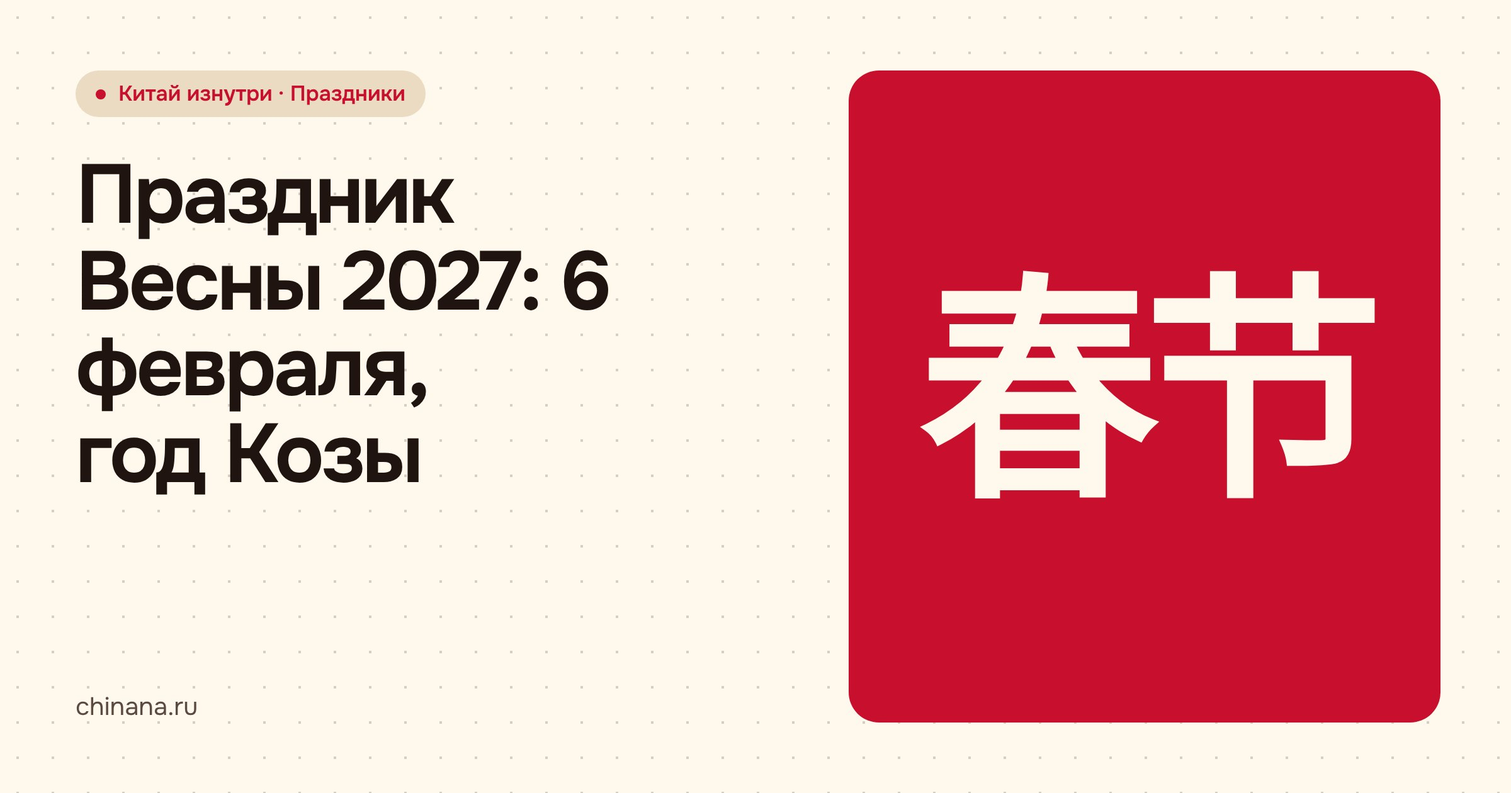
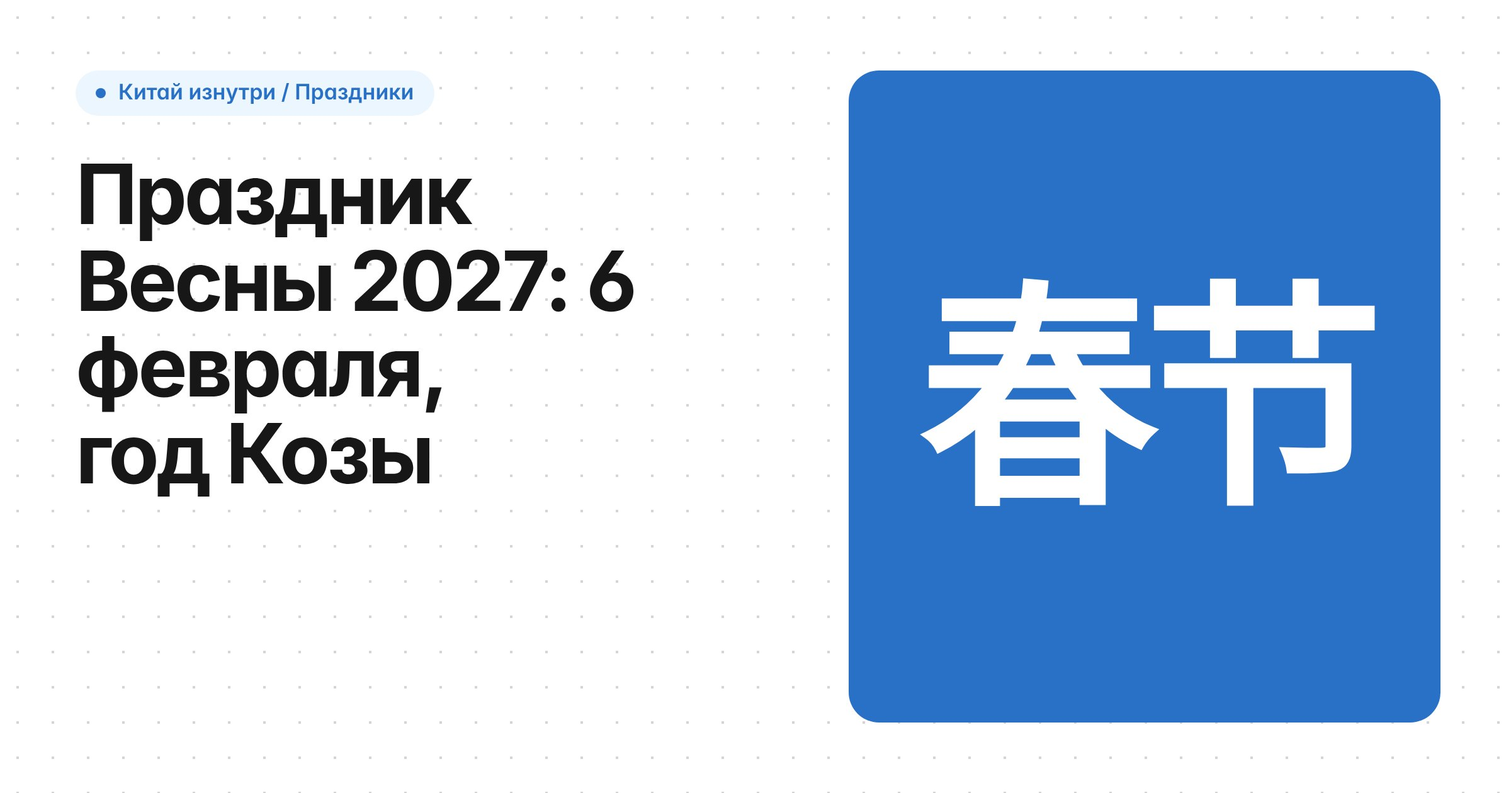
Главная, Wiki и шапка: мифы с рассеиванием, блог в 1 колонку, дропдаун «Вузы», без «·» (#25)
Claude-Session: https://claude.ai/code/session_01QsQA1ALxuqJ2HV99zuLppH

diff --git a/src/components/home-sections.tsx b/src/components/home-sections.tsx
@@ -1,9 +1,10 @@
+import type React from "react";
 import Link from "next/link";
 import { Check, X, ArrowRight } from "lucide-react";
 import { home } from "@/content/home";
 import { Container, Section, SectionHead } from "@/components/container";
 import { Button } from "@/components/ui/button";
-import { PostCard } from "@/components/post-card";
+import { PostList } from "@/components/post-card";
 import { getPosts } from "@/lib/posts";
 
 // Секции главной v0.6: цели, мифы, путь к HSK. Без фото — иероглифы и иконки.
@@ -36,7 +37,7 @@ export function Goals() {
         <SectionHead eyebrow={home.goalsHead.eyebrow} title={home.goalsHead.title} accent={home.goalsHead.accent} text={home.goalsHead.text} />
         <div className="cards grid-cols-1 sm:grid-cols-2 lg:grid-cols-3">
           {home.goals.map((g) => (
-            <Link key={g.title} href={g.href} className="group relative flex min-h-[220px] flex-col overflow-hidden bg-card px-[22px] pb-6 pt-[26px] transition-colors hover:bg-card-hover">
+            <Link key={g.title} href={g.href} className="group relative flex min-h-[220px] flex-col overflow-hidden bg-card px-[22px] pb-6 pt-[26px]">
               <span aria-hidden="true" lang="zh-Hans" data-zh={g.zh} className="zh-deco pointer-events-none absolute -bottom-4 -right-2 font-zh text-[120px] font-black leading-none text-primary opacity-[0.08] transition-opacity group-hover:opacity-[0.14]" />
               <span aria-hidden="true" lang="zh-Hans" className="font-zh text-[28px] font-black leading-none text-primary">{g.zh}</span>
               <h3 className="mt-5 text-[22px] font-bold uppercase leading-tight">{g.title}</h3>
@@ -50,21 +51,30 @@ export function Goals() {
   );
 }
 
+// Миф крупно; по наведению, фокусу или нажатию слова мифа разлетаются и тают, проступает реальность.
+// Смещения слов детерминированные (по индексу) — разметка одинаковая на сервере и в браузере.
+const drift = (i: number) => ({ "--dx": `${((i * 37) % 9) * 6 - 24}px`, "--dy": `${-14 - ((i * 53) % 7) * 6}px`, "--rot": `${((i * 29) % 11) - 5}deg`, "--delay": `${(i % 5) * 35}ms` }) as React.CSSProperties;
+
 export function Myths() {
   return (
     <Section id="myths">
       <Container>
-        <SectionHead title={home.mythsHead.title} accent={home.mythsHead.accent} />
+        <SectionHead title={home.mythsHead.title} accent={home.mythsHead.accent} text={home.mythsHead.text} />
         <div className="cards grid-cols-1 sm:grid-cols-2 lg:grid-cols-4">
           {home.myths.map((m) => (
-            <article key={m.myth} className="relative flex flex-col overflow-hidden bg-card px-[22px] pb-6 pt-[26px]">
-              <span aria-hidden="true" lang="zh-Hans" data-zh={m.zh} className="zh-deco pointer-events-none absolute -right-1 top-3 font-zh text-[64px] font-black leading-none text-primary opacity-[0.1]" />
-              <p className="flex items-center gap-2 font-mono text-xs uppercase text-muted-foreground"><X aria-hidden="true" className="size-4 text-primary" />Миф</p>
-              <p className="mt-2 text-[17px] font-semibold leading-snug">{m.myth}</p>
-              <hr className="my-5 border-t border-dashed border-border" />
-              <p className="flex items-center gap-2 font-mono text-xs uppercase text-muted-foreground"><Check aria-hidden="true" className="size-4 text-primary" />Реальность</p>
-              <p className="mt-2 text-[15px]">{m.fact}</p>
-              <Link href={m.href} className="mt-auto inline-flex items-center gap-1.5 pt-5 text-sm font-semibold text-brand hover:underline">{m.link}<ArrowRight aria-hidden="true" className="size-3.5" /></Link>
+            <article key={m.myth} tabIndex={0} className="myth group relative grid min-h-[300px] overflow-hidden bg-card outline-none focus-visible:outline-2 focus-visible:-outline-offset-2 focus-visible:outline-primary">
+              <span aria-hidden="true" lang="zh-Hans" data-zh={m.zh} className="zh-deco myth-zh pointer-events-none absolute -bottom-4 -right-2 font-zh text-[120px] font-black leading-none text-primary opacity-[0.08]" />
+              <div className="myth-front col-start-1 row-start-1 flex flex-col px-[22px] pb-6 pt-[26px]">
+                <p className="flex items-center gap-2 font-mono text-xs uppercase text-muted-foreground"><X aria-hidden="true" className="size-4 text-primary" />Миф</p>
+                <p className="mt-auto text-[clamp(24px,2.2vw,30px)] font-bold uppercase leading-[1.1]">
+                  {m.myth.split(" ").map((w, i) => <span key={i} className="myth-word" style={drift(i)}>{w}</span>).flatMap((el, i) => (i ? [" ", el] : [el]))}
+                </p>
+              </div>
+              <div className="myth-back col-start-1 row-start-1 flex flex-col px-[22px] pb-6 pt-[26px]">
+                <p className="flex items-center gap-2 font-mono text-xs uppercase text-muted-foreground"><Check aria-hidden="true" className="size-4 text-primary" />Реальность</p>
+                <p className="mt-3 text-[17px] leading-snug">{m.fact}</p>
+                <Link href={m.href} className="mt-auto inline-flex items-center gap-1.5 pt-5 text-sm font-semibold text-brand hover:underline">{m.link}<ArrowRight aria-hidden="true" className="size-3.5" /></Link>
+              </div>
             </article>
           ))}
         </div>
@@ -81,8 +91,7 @@ export function HskPath() {
         <div className="cards grid-cols-1 sm:grid-cols-2 lg:grid-cols-4">
           {home.hsk.map((h) => (
             <div key={h.level + h.time} className="flex min-h-[220px] flex-col bg-card px-[22px] pb-6 pt-[26px]">
-              <span className="font-mono text-xs uppercase text-muted-foreground">汉语水平考试</span>
-              <b className="mt-8 block text-[clamp(34px,3.6vw,46px)] font-bold leading-none text-primary">{h.level}</b>
+              <b className="block text-[clamp(34px,3.6vw,46px)] font-bold leading-none text-primary">{h.level}</b>
               <span className="mt-3 inline-flex self-start rounded-full bg-accent px-3 py-1 font-mono text-xs font-medium text-accent-foreground">{h.time}</span>
               <p className="mt-3 text-[15px] text-muted-foreground">{h.text}</p>
             </div>
@@ -104,9 +113,7 @@ export function HomeBlog() {
     <Section id="blog">
       <Container>
         <SectionHead title={home.blogHead.title} accent={home.blogHead.accent} text={home.blogHead.text} />
-        <div className="cards grid-cols-1 md:grid-cols-2">
-          {posts.map((p) => <PostCard key={p.slug} p={p} />)}
-        </div>
+        <PostList posts={posts} />
         <div className="mt-6 flex justify-center"><Button asChild variant="outline"><Link href="/blog/">Все статьи →</Link></Button></div>
       </Container>
     </Section>

diff --git a/src/components/header.tsx b/src/components/header.tsx
@@ -2,6 +2,7 @@ import Link from "next/link";
 import { Menu, X } from "lucide-react";
 import { nav, site } from "@/content/site";
 import { programs } from "@/content/programs";
+import { universities, uniPath } from "@/content/universities";
 import { ChevronDown } from "lucide-react";
 import { Container } from "./container";
 import { Button } from "./ui/button";
@@ -16,25 +17,46 @@ export function Logo({ className }: { className?: string }) {
   );
 }
 
-// Дропдаун «Программы»: открывается по наведению и по фокусу с клавиатуры, без JavaScript
-function ProgramsMenu({ label }: { label: string }) {
+type MenuItem = { href: string; title: string; sub?: string; zh: string };
+const menus: Record<string, { items: MenuItem[]; all: string; wide?: boolean }> = {
+  "/programs/": {
+    items: programs.map((p) => ({ href: `/programs/${p.slug}/`, title: p.title, sub: `${p.facts[0]?.label}: ${p.facts[0]?.value}`, zh: p.zh })),
+    all: "Сравнить программы →",
+  },
+  "/universities/": {
+    items: universities.map((u) => ({ href: uniPath(u), title: u.nameRu, sub: u.city, zh: u.zhShort })),
+    all: `Весь каталог: ${universities.length} вузов →`,
+    wide: true,
+  },
+};
+
+// Дропдауны «Программы» и «Вузы»: открываются по наведению и по фокусу с клавиатуры, без JavaScript
+function NavMenu({ href, label }: { href: string; label: string }) {
+  const m = menus[href];
   return (
     <div className="group/p relative">
-      <Link href="/programs/" className="inline-flex items-center gap-1 py-5 hover:text-primary" aria-haspopup="true">
+      <Link href={href} className="inline-flex items-center gap-1 py-5 hover:text-primary" aria-haspopup="true">
         {label}<ChevronDown aria-hidden="true" className="size-3.5 transition-transform group-hover/p:rotate-180 group-focus-within/p:rotate-180" />
       </Link>
-      <div className="invisible absolute left-1/2 top-full z-50 w-[300px] -translate-x-1/2 opacity-0 transition-opacity group-hover/p:visible group-hover/p:opacity-100 group-focus-within/p:visible group-focus-within/p:opacity-100">
-        <ul className="border border-border bg-card shadow-[0_8px_24px_-12px_rgb(0_0_0/0.25)]">
-          {programs.map((p) => (
-            <li key={p.slug} className="border-b border-grid-line last:border-b-0">
-              <Link href={`/programs/${p.slug}/`} className="flex items-baseline justify-between gap-3 px-4 py-3 hover:bg-secondary">
-                <span><b className="block text-[15px] font-semibold">{p.title}</b><span className="text-[13px] text-muted-foreground">{p.facts[0]?.label}: {p.facts[0]?.value}</span></span>
-                <span aria-hidden="true" lang="zh-Hans" className="font-zh text-lg font-black text-primary">{p.zh}</span>
-              </Link>
-            </li>
-          ))}
-          <li><Link href="/programs/" className="block bg-secondary px-4 py-2.5 font-mono text-xs uppercase hover:text-primary">Сравнить программы →</Link></li>
-        </ul>
+      <div className={`invisible absolute left-1/2 top-full z-50 -translate-x-1/2 opacity-0 transition-opacity group-hover/p:visible group-hover/p:opacity-100 group-focus-within/p:visible group-focus-within/p:opacity-100 ${m.wide ? "w-[880px]" : "w-[300px]"}`}>
+        <div className="border border-border bg-card shadow-[0_8px_24px_-12px_rgb(0_0_0/0.25)]">
+          <ul className={m.wide ? "grid max-h-[calc(100vh-140px)] grid-cols-2 overflow-y-auto" : ""}>
+            {m.items.map((i) => (
+              <li key={i.href} className={`border-b border-grid-line ${m.wide ? "odd:border-r" : "last:border-b-0"}`}>
+                <Link href={i.href} title={m.wide ? i.title : undefined} className={`flex items-baseline gap-3 px-4 hover:bg-secondary ${m.wide ? "py-2" : "justify-between py-3"}`}>
+                  {m.wide && <span aria-hidden="true" lang="zh-Hans" className="w-[3.2em] shrink-0 whitespace-nowrap font-zh text-sm font-black text-primary">{i.zh}</span>}
+                  {m.wide ? (
+                    <><span className="min-w-0 flex-1 truncate text-sm font-semibold">{i.title}</span><span className="shrink-0 font-mono text-[11px] text-muted-foreground">{i.sub}</span></>
+                  ) : (
+                    <span className="min-w-0"><b className="block text-[15px] font-semibold">{i.title}</b><span className="text-[13px] text-muted-foreground">{i.sub}</span></span>
+                  )}
+                  {!m.wide && <span aria-hidden="true" lang="zh-Hans" className="font-zh text-lg font-black text-primary">{i.zh}</span>}
+                </Link>
+              </li>
+            ))}
+          </ul>
+          <Link href={href} className="block bg-secondary px-4 py-2.5 font-mono text-xs uppercase hover:text-primary">{m.all}</Link>
+        </div>
       </div>
     </div>
   );
@@ -55,7 +77,7 @@ function MobileMenu() {
               <a href={n.href} className="block py-3.5 text-lg font-medium">{n.label}</a>
               {n.href === "/programs/" && (
                 <ul className="-mt-1 pb-3 pl-4">
-                  {programs.map((p) => <li key={p.slug}><a href={`/programs/${p.slug}/`} className="block py-1.5 text-muted-foreground">{p.title}</a></li>)}
+                  {menus[n.href].items.map((i) => <li key={i.href}><a href={i.href} className="block py-1.5 text-muted-foreground">{i.title}</a></li>)}
                 </ul>
               )}
             </li>
@@ -74,7 +96,7 @@ export function Header() {
         <Logo />
         <nav aria-label="Основное меню" className="hidden items-center gap-7 text-[15px] lg:flex">
           {nav.map((n) =>
-            n.href === "/programs/" ? <ProgramsMenu key={n.href} label={n.label} /> : <Link key={n.href} href={n.href} className="hover:text-primary">{n.label}</Link>,
+            menus[n.href] ? <NavMenu key={n.href} href={n.href} label={n.label} /> : <Link key={n.href} href={n.href} className="hover:text-primary">{n.label}</Link>,
           )}
         </nav>
         <div className="flex items-center gap-2">

diff --git a/src/components/wiki.tsx b/src/components/wiki.tsx
@@ -12,7 +12,7 @@ import { answerSchema, faqSchema, graph } from "@/lib/schema";
 export function WikiNav({ current }: { current?: string }) {
   const list = (
     <nav aria-label="Разделы Wiki" className="text-[15px]">
-      <Link href="/wiki/" className={`mb-4 block font-mono text-xs uppercase ${current === "/wiki/" ? "text-primary" : "text-muted-foreground hover:text-primary"}`}>Wiki · все разделы</Link>
+      <Link href="/wiki/" className={`mb-4 block font-mono text-xs uppercase ${current === "/wiki/" ? "text-primary" : "text-muted-foreground hover:text-primary"}`}>Все разделы Wiki</Link>
       {wikiSections.map((s) => (
         <div key={s.id} className="mb-5">
           <p className="mb-1.5 flex items-baseline gap-2 font-semibold">
@@ -35,8 +35,8 @@ export function WikiNav({ current }: { current?: string }) {
         <summary className="cursor-pointer px-4 py-3 font-mono text-xs uppercase">Все статьи Wiki</summary>
         <div className="border-t border-border px-4 py-4">{list}</div>
       </details>
-      <aside className="hidden lg:col-start-2 lg:row-start-1 lg:block">
-        <div className="sticky top-[92px] max-h-[calc(100vh-110px)] overflow-y-auto border-l border-grid-line pl-6">{list}</div>
+      <aside className="hidden lg:col-span-2 lg:col-start-11 lg:row-start-1 lg:block">
+        <div className="sticky top-[92px] max-h-[calc(100vh-110px)] overflow-y-auto pl-4">{list}</div>
       </aside>
     </>
   );
@@ -44,12 +44,12 @@ export function WikiNav({ current }: { current?: string }) {
 
 export function WikiShell({ current, children }: { current?: string; children: React.ReactNode }) {
   return (
-    <section className="relative overflow-hidden pb-[clamp(64px,9vw,120px)] pt-[clamp(32px,5vw,64px)]">
+    <section className="relative overflow-clip pb-[clamp(64px,9vw,120px)] pt-[clamp(32px,5vw,64px)]">
       <GridLines />
       <Container>
-        <div className="grid gap-x-12 lg:grid-cols-[1fr_240px]">
+        <div className="grid lg:grid-cols-12">
           <WikiNav current={current} />
-          <div className="min-w-0 lg:col-start-1 lg:row-start-1">{children}</div>
+          <div className="min-w-0 lg:col-span-10 lg:col-start-1 lg:row-start-1 lg:pr-[clamp(24px,3vw,48px)]">{children}</div>
         </div>
       </Container>
     </section>
@@ -75,10 +75,10 @@ export function WikiArticle({ a }: { a: Answer }) {
     <WikiShell current={a.path}>
       <JsonLd data={graph(answerSchema(a), a.faq.length > 0 && faqSchema(a.faq))} />
       <article className="max-w-[46em]">
-        <p className="font-mono text-xs uppercase tracking-wide text-primary">Wiki · {sec.title}</p>
+        <p className="font-mono text-xs uppercase tracking-wide text-primary">Wiki / {sec.title}</p>
         <h1 className="mt-4 text-[clamp(32px,4.6vw,60px)]">{a.h1} <em>{a.h1Accent}</em></h1>
         <p className="mt-6 text-[clamp(17px,1.5vw,19px)]">{a.answer}</p>
-        <p className="mt-3 font-mono text-xs text-muted-foreground">Факты проверены {dateRu(a.updated)} · источники внизу страницы</p>
+        <p className="mt-3 font-mono text-xs text-muted-foreground">Факты проверены {dateRu(a.updated)}, источники внизу страницы</p>
 
         {a.facts.length > 0 && (
           <div className="cards mt-8 grid-cols-1 sm:grid-cols-2">

diff --git a/src/components/post-card.tsx b/src/components/post-card.tsx
@@ -1,23 +1,35 @@
 import Link from "next/link";
 import { formatDate, type Post } from "@/lib/posts";
 
-// Карточка статьи: обложка, дата, рубрика, заголовок, «Читать →». Обложку рисует media.mjs при выкладке.
+// Карточка статьи: обложка слева, дата, рубрика, заголовок, «Читать →». Обложку рисует media.mjs при выкладке.
 export function PostCard({ p }: { p: Post }) {
   return (
-    <Link href={`/blog/${p.slug}/`} className="group flex flex-col bg-card transition-colors hover:bg-card-hover">
+    <Link href={`/blog/${p.slug}/`} className="group grid bg-card sm:grid-cols-[minmax(0,5fr)_minmax(0,6fr)]">
       <div className="relative aspect-[16/9] overflow-hidden bg-secondary">
         {p.cover && (
           // eslint-disable-next-line @next/next/no-img-element
-          <img src={p.cover} alt={p.coverAlt ?? ""} loading="lazy" decoding="async" className="absolute inset-0 size-full object-cover transition-transform duration-300 group-hover:scale-[1.02]" />
+          <img src={p.cover} alt={p.coverAlt ?? ""} loading="lazy" decoding="async" className="absolute inset-0 size-full object-cover" />
         )}
       </div>
-      <div className="flex flex-1 flex-col px-[22px] pb-6 pt-5">
+      <div className="flex flex-col px-[22px] pb-6 pt-5">
         <p className="font-mono text-xs uppercase text-muted-foreground">
-          <time dateTime={p.date}>{formatDate(p.date)}</time>{p.rubric && <> · {p.rubric}</>}
+          <time dateTime={p.date}>{formatDate(p.date)}</time>{p.rubric && <>, {p.rubric}</>}
         </p>
-        <h3 className="mt-2 text-[20px] font-semibold leading-snug">{p.title}</h3>
+        <h3 className="mt-2 text-[20px] font-semibold leading-snug group-hover:text-primary">{p.title}</h3>
         <span className="mt-auto pt-4 font-semibold text-brand group-hover:underline">Читать →</span>
       </div>
     </Link>
+  );
+}
+
+// Список статей: одна колонка шириной 8 из 12 колонок сетки, по центру.
+export function PostList({ posts }: { posts: Post[] }) {
+  if (!posts.length) return null;
+  return (
+    <div className="lg:grid lg:grid-cols-12 lg:gap-0">
+      <div className="cards grid-cols-1 lg:col-span-8 lg:col-start-3">
+        {posts.map((p) => <PostCard key={p.slug} p={p} />)}
+      </div>
+    </div>
   );
 }

diff --git a/src/content/home.ts b/src/content/home.ts
@@ -1,7 +1,7 @@
 // Контент главной — specs/02-spec.md §5 «Главная», прототип A v3.
 
 export const home = {
-  eyebrow: "Языковой год · Foundation · Бакалавриат · Магистратура",
+  eyebrow: "Языковой год, Foundation, бакалавриат, магистратура",
   h1: "Поступление в Китай для",
   h1Mark: "взрослых",
   answer:
@@ -35,7 +35,7 @@ export const home = {
     { zh: "生活", title: "Переезд", text: "Пожить в Китае, привыкнуть к стране и выбрать город для жизни.", href: "/wiki/cities/" },
     { zh: "成长", title: "Новое начало", text: "Второе образование или смена профессии — в 25, 30 и позже.", href: "/wiki/language-to-degree/" },
   ],
-  mythsHead: { title: "Учёба в Китае —", accent: "реально и доступно" },
+  mythsHead: { title: "Учёба в Китае —", accent: "реально и доступно", text: "Развейте мифы о Китае: наведите курсор на карточку или нажмите на неё." },
   myths: [
     { zh: "零", myth: "В Китай берут только со знанием языка", fact: "На языковые курсы принимают с нуля: новичков распределяют в группы по тесту. Есть и программы на английском.", href: "/wiki/language-courses/", link: "Языковые курсы" },
     { zh: "钱", myth: "Учёба за границей — это дорого", fact: "Год языковых курсов в вузах нашего каталога стоит от 13 000 до 36 000 юаней. Цены вузов — со ссылками.", href: "/wiki/cost/", link: "Стоимость учёбы" },

diff --git a/src/app/programs/[slug]/page.tsx b/src/app/programs/[slug]/page.tsx
@@ -37,7 +37,7 @@ export default async function ProgramPage({ params }: { params: Promise<{ slug: 
         <GridLines />
         <div aria-hidden="true" lang="zh-Hans" className="zh-bg left-1/2 top-[38%] -translate-x-1/2 -translate-y-1/2 text-[clamp(220px,32vw,440px)] text-primary opacity-[0.06]">{p.zh}</div>
         <Container>
-          <p className="font-mono text-xs uppercase tracking-wide text-primary">Программа {p.num} · {p.zh}</p>
+          <p className="font-mono text-xs uppercase tracking-wide text-primary">Программа {p.num} {p.zh}</p>
           <h1 className="mx-auto mt-[18px] max-w-[9.3em] text-[clamp(38px,6.4vw,84px)]">{p.h1} <em>{p.h1Accent}</em></h1>
           <p className="mx-auto mt-6 max-w-[42.6em] text-[clamp(17px,1.6vw,20px)] text-muted-foreground">{p.answer}</p>
           <div className="mt-8 flex flex-wrap justify-center gap-3">
@@ -133,7 +133,7 @@ export default async function ProgramPage({ params }: { params: Promise<{ slug: 
           <SectionHead title="Другие программы" />
           <div className="cards grid-cols-1 md:grid-cols-3">
             {others.map((o) => (
-              <Link key={o.slug} href={`/programs/${o.slug}/`} className="block bg-card px-[22px] py-[26px] transition-colors hover:bg-card-hover">
+              <Link key={o.slug} href={`/programs/${o.slug}/`} className="block bg-card px-[22px] py-[26px]">
                 <span className="font-mono text-[13px]">{o.num}</span>
                 <h3 className="mb-1.5 mt-2.5 text-[22px] font-bold uppercase">{o.title}</h3>
                 <p className="text-[15px] text-muted-foreground">{o.short}</p>

diff --git a/src/app/globals.css b/src/app/globals.css
@@ -123,3 +123,15 @@
 /* Декоративный иероглиф: текст из data-zh в ::before — это украшение, не контент (контраст для него не нужен) */
 .zh-deco::before { content: attr(data-zh); }
 .zh-bg { position: absolute; pointer-events: none; user-select: none; font-family: var(--font-zh); font-weight: 900; line-height: 1; white-space: nowrap; }
+
+/* Мифы: слова мифа разлетаются и тают, проступает реальность (hover, фокус, нажатие) */
+.myth-word { display: inline-block; white-space: pre; transition: transform .6s cubic-bezier(.2,.7,.2,1) var(--delay), opacity .5s ease var(--delay), filter .6s ease var(--delay); }
+.myth-front > p:first-child, .myth-zh { transition: opacity .3s ease; }
+.myth-back { opacity: 0; transform: translateY(8px); transition: opacity .45s ease .2s, transform .45s ease .2s; pointer-events: none; }
+.myth:hover .myth-word, .myth:focus-within .myth-word { transform: translate(var(--dx), var(--dy)) rotate(var(--rot)); opacity: 0; filter: blur(6px); }
+.myth:hover .myth-front > p:first-child, .myth:focus-within .myth-front > p:first-child { opacity: 0; }
+.myth:hover .myth-zh, .myth:focus-within .myth-zh { opacity: .14; }
+.myth:hover .myth-back, .myth:focus-within .myth-back { opacity: 1; transform: none; pointer-events: auto; }
+@media (prefers-reduced-motion: reduce) {
+  .myth-word, .myth-back { transition: opacity .2s ease; transform: none !important; filter: none !important; }
+}

diff --git a/src/app/blog/page.tsx b/src/app/blog/page.tsx
@@ -3,7 +3,7 @@ import Link from "next/link";
 import { site } from "@/content/site";
 import { getPosts } from "@/lib/posts";
 import { Container, Section, SectionHead } from "@/components/container";
-import { PostCard } from "@/components/post-card";
+import { PostList } from "@/components/post-card";
 import { JsonLd } from "@/components/json-ld";
 import { graph } from "@/lib/schema";
 
@@ -38,12 +38,10 @@ export default function Blog() {
             <p>
               Нашли ошибку или устаревшую цифру? Напишите нам — проверим по источнику и исправим статью, а дату обновления поставим в начале текста.
             </p>
-            <p className="font-mono text-xs uppercase text-muted-foreground">Рубрики: праздники · обычаи и этикет · язык · еда · города</p>
+            <p className="font-mono text-xs uppercase text-muted-foreground">Рубрики: праздники, обычаи и этикет, язык, еда, города</p>
           </div>
           {posts.length === 0 && <p className="text-center text-muted-foreground">Статьи скоро появятся.</p>}
-          <div className="cards grid-cols-1 md:grid-cols-2">
-            {posts.map((p) => <PostCard key={p.slug} p={p} />)}
-          </div>
+          <PostList posts={posts} />
         </Container>
       </Section>
     </>

diff --git a/src/app/wiki/cities/page.tsx b/src/app/wiki/cities/page.tsx
@@ -16,7 +16,7 @@ export default function CitiesPage() {
   return (
     <WikiShell current="/wiki/cities/">
       <JsonLd data={graph(itemList(cities.map((c) => ({ name: c.nameRu, path: cityPath(c) }))))} />
-      <p className="font-mono text-xs uppercase tracking-wide text-primary">Wiki · Города</p>
+      <p className="font-mono text-xs uppercase tracking-wide text-primary">Wiki / Города</p>
       <h1 className="mt-4 text-[clamp(32px,4.6vw,60px)]">Города Китая <em>для учёбы</em></h1>
       <p className="mt-6 max-w-[46em] text-[clamp(17px,1.5vw,19px)]">
         Город решает почти столько же, сколько вуз: от него зависят климат, расходы и дорога домой. Харбин — самый холодный: средняя температура января −17,3 °C, зато до него летают из девяти городов России. На юге, в Гуанчжоу и Сямэне, январь теплее +13 °C. Прямые рейсы из Москвы есть в Пекин, Шанхай, Ханчжоу, Ухань, Чэнду и Гуанчжоу. Ниже — 13 городов, где находятся вузы нашего каталога.

diff --git a/src/app/blog/[slug]/page.tsx b/src/app/blog/[slug]/page.tsx
@@ -36,11 +36,11 @@ export default async function PostPage({ params }: { params: Promise<{ slug: str
       <JsonLd data={graph(articleSchema(p))} />
       <Section className="pt-12">
         <Container className="max-w-3xl">
-          <p className="mb-4 font-mono text-xs uppercase tracking-wide text-primary">Блог{p.rubric ? ` · ${p.rubric}` : ""}</p>
+          <p className="mb-4 font-mono text-xs uppercase tracking-wide text-primary">Блог{p.rubric ? ` / ${p.rubric}` : ""}</p>
           <h1 className="text-[clamp(30px,4.4vw,52px)] leading-tight">{p.title}</h1>
           <p className="mt-4 text-sm text-muted-foreground">
-            {site.person ? site.person.name : site.name} · <time dateTime={p.date}>{formatDate(p.date)}</time>
-            {p.updated && p.updated !== p.date && <> · обновлено <time dateTime={p.updated}>{formatDate(p.updated)}</time></>}
+            {site.person ? site.person.name : site.name}, <time dateTime={p.date}>{formatDate(p.date)}</time>
+            {p.updated && p.updated !== p.date && <>, обновлено <time dateTime={p.updated}>{formatDate(p.updated)}</time></>}
           </p>
           {p.cover && (
             // eslint-disable-next-line @next/next/no-img-element

diff --git a/src/app/universities/[slug]/page.tsx b/src/app/universities/[slug]/page.tsx
@@ -48,7 +48,7 @@ export default async function UniPage({ params }: { params: Promise<{ slug: stri
         <GridLines />
         <div aria-hidden="true" lang="zh-Hans" className="zh-bg left-1/2 top-[38%] -translate-x-1/2 -translate-y-1/2 text-[clamp(180px,26vw,380px)] text-primary opacity-[0.06]">{u.zhShort}</div>
         <Container>
-          <p className="font-mono text-xs uppercase tracking-wide text-primary"><span lang="zh-Hans" className="font-zh text-sm font-black">{u.nameZh}</span> · {u.city}</p>
+          <p className="font-mono text-xs uppercase tracking-wide text-primary"><span lang="zh-Hans" className="font-zh text-sm font-black">{u.nameZh}</span> {u.city}</p>
           <h1 className="mx-auto mt-[18px] max-w-[12em] text-[clamp(34px,5.6vw,76px)]">{u.nameRu}: <em>поступление для россиян</em></h1>
           <p className="mx-auto mt-6 max-w-[42.6em] text-[clamp(17px,1.6vw,20px)] text-muted-foreground">{uniAnswer(u)}</p>
           <div className="mt-8 flex flex-wrap justify-center gap-3">

diff --git a/src/app/wiki/cities/[slug]/page.tsx b/src/app/wiki/cities/[slug]/page.tsx
@@ -36,7 +36,7 @@ export default async function CityPage({ params }: { params: Promise<{ slug: str
     <WikiShell current={cityPath(c)}>
       <JsonLd data={graph(schema)} />
       <article className="max-w-[46em]">
-        <p className="font-mono text-xs uppercase tracking-wide text-primary">Wiki · Города · <span lang="zh-Hans" className="font-zh font-black">{c.nameZh}</span></p>
+        <p className="font-mono text-xs uppercase tracking-wide text-primary">Wiki / Города / <span lang="zh-Hans" className="font-zh font-black">{c.nameZh}</span></p>
         <h1 className="mt-4 text-[clamp(32px,4.6vw,60px)]">{c.nameRu}: <em>учёба и жизнь</em></h1>
         <p className="mt-6 text-[clamp(17px,1.5vw,19px)]">{cityAnswer(c)}</p>
         <p className="mt-3 font-mono text-xs text-muted-foreground">Данные проверены {new Date(citiesChecked).toLocaleDateString("ru-RU", { day: "numeric", month: "long", year: "numeric" })}</p>
